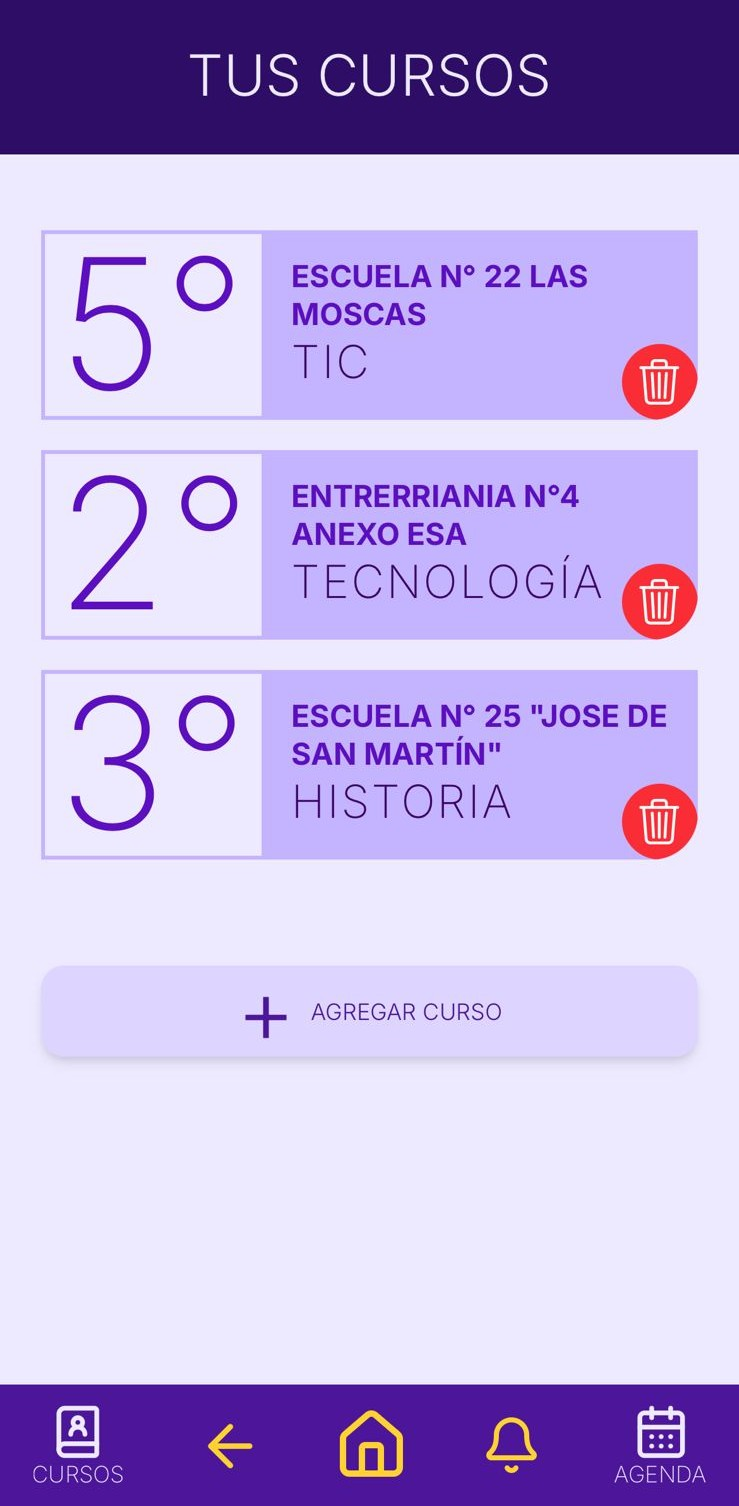
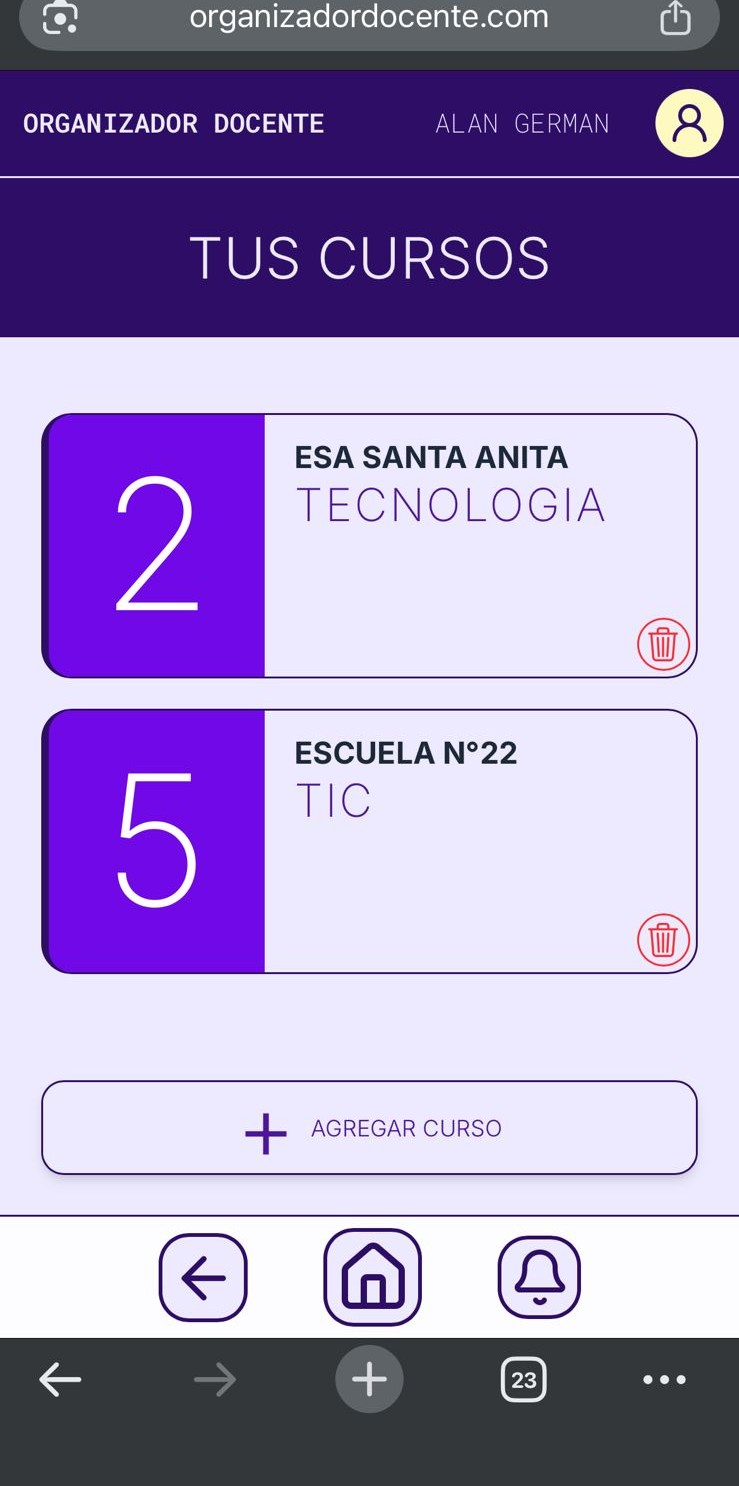
Ajustes estéticos landing

diff --git a/public/sw.js b/public/sw.js
@@ -1,1 +1,1 @@
-if(!self.define){let e,i={};const s=(s,a)=>(s=new URL(s+".js",a).href,i[s]||new Promise(i=>{if("document"in self){const e=document.createElement("script");e.src=s,e.onload=i,document.head.appendChild(e)}else e=s,importScripts(s),i()}).then(()=>{let e=i[s];if(!e)throw new Error(`Module ${s} didn’t register its module`);return e}));self.define=(a,c)=>{const t=e||("document"in self?document.currentScript.src:"")||location.href;if(i[t])return;let n={};const r=e=>s(e,t),f={module:{uri:t},exports:n,require:r};i[t]=Promise.all(a.map(e=>f[e]||r(e))).then(e=>(c(...e),n))}}define(["./workbox-4754cb34"],function(e){"use strict";importScripts(),self.skipWaiting(),e.clientsClaim(),e.precacheAndRoute([{url:"/Atma/OFL.txt",revision:"62f71a11d9a00d46cdf3102097f59af9"},{url:"/Bebas_Neue/OFL.txt",revision:"f42efa4255d0f0b7ec140429febee0b0"},{url:"/Playwrite_AU_NSW/OFL.txt",revision:"bd7673fa565a08cf458f936e57dc2ed3"},{url:"/Playwrite_AU_NSW/PlaywriteAUNSW-VariableFont_wght.ttf",revision:"6f5cb244f7b46185e6931479e0ded427"},{url:"/Playwrite_AU_NSW/README.txt",revision:"90dbf4457961b204501ef4aab9458b57"},{url:"/Playwrite_AU_NSW/static/PlaywriteAUNSW-ExtraLight.ttf",revision:"c7327817bd2adac6a3a9c4f6a2e87c8c"},{url:"/Playwrite_AU_NSW/static/PlaywriteAUNSW-Light.ttf",revision:"9387a020330f837fd9c16b289670afce"},{url:"/Playwrite_AU_NSW/static/PlaywriteAUNSW-Regular.ttf",revision:"56de08dbf6f04b18c145d47be2312e22"},{url:"/Playwrite_AU_NSW/static/PlaywriteAUNSW-Thin.ttf",revision:"4b7e51f50c393b30944f905e9c7b9971"},{url:"/_next/app-build-manifest.json",revision:"87e952715cabbb3871a7cf6c61ec3b60"},{url:"/_next/static/-Giu0QAzjriWvPHl-4fNc/_buildManifest.js",revision:"c155cce658e53418dec34664328b51ac"},{url:"/_next/static/-Giu0QAzjriWvPHl-4fNc/_ssgManifest.js",revision:"b6652df95db52feb4daf4eca35380933"},{url:"/_next/static/chunks/117-905fadd7e2e1b826.js",revision:"-Giu0QAzjriWvPHl-4fNc"},{url:"/_next/static/chunks/198-01aaa8b002b400dc.js",revision:"-Giu0QAzjriWvPHl-4fNc"},{url:"/_next/static/chunks/303-a523350dd08b7444.js",revision:"-Giu0QAzjriWvPHl-4fNc"},{url:"/_next/static/chunks/693-67a1a5c201638d2e.js",revision:"-Giu0QAzjriWvPHl-4fNc"},{url:"/_next/static/chunks/6edf0643-db532f25b1f04785.js",revision:"-Giu0QAzjriWvPHl-4fNc"},{url:"/_next/static/chunks/869-a52f41c35ad4e4cc.js",revision:"-Giu0QAzjriWvPHl-4fNc"},{url:"/_next/static/chunks/app/_not-found/page-7ea5c92619c85ddd.js",revision:"-Giu0QAzjriWvPHl-4fNc"},{url:"/_next/static/chunks/app/agenda/page-6b75b58cbd2e3952.js",revision:"-Giu0QAzjriWvPHl-4fNc"},{url:"/_next/static/chunks/app/home/page-8b1e01ae290d5aca.js",revision:"-Giu0QAzjriWvPHl-4fNc"},{url:"/_next/static/chunks/app/horario/page-dabb846acee368c2.js",revision:"-Giu0QAzjriWvPHl-4fNc"},{url:"/_next/static/chunks/app/layout-fba558c83fd7cceb.js",revision:"-Giu0QAzjriWvPHl-4fNc"},{url:"/_next/static/chunks/app/login/page-5e5ac74fa0ca3656.js",revision:"-Giu0QAzjriWvPHl-4fNc"},{url:"/_next/static/chunks/app/menu-cursos/page-285bfdc284fb4116.js",revision:"-Giu0QAzjriWvPHl-4fNc"},{url:"/_next/static/chunks/app/page-1e4c45134485629f.js",revision:"-Giu0QAzjriWvPHl-4fNc"},{url:"/_next/static/chunks/app/perfil/page-9071f58e4d4b07de.js",revision:"-Giu0QAzjriWvPHl-4fNc"},{url:"/_next/static/chunks/app/planes/page-6ba55b859cf42230.js",revision:"-Giu0QAzjriWvPHl-4fNc"},{url:"/_next/static/chunks/app/planificaciones/page-a97ecdcaa5967a4b.js",revision:"-Giu0QAzjriWvPHl-4fNc"},{url:"/_next/static/chunks/app/registro/page-577aa09eb44d0a5e.js",revision:"-Giu0QAzjriWvPHl-4fNc"},{url:"/_next/static/chunks/app/sub-menu-curso/%5Bid%5D/alumnos/page-011cd7b938e9ee9e.js",revision:"-Giu0QAzjriWvPHl-4fNc"},{url:"/_next/static/chunks/app/sub-menu-curso/%5Bid%5D/asistencia/page-a4ac3f67fb8b8cd8.js",revision:"-Giu0QAzjriWvPHl-4fNc"},{url:"/_next/static/chunks/app/sub-menu-curso/%5Bid%5D/calificaciones/page-f33c816dccc0b7e0.js",revision:"-Giu0QAzjriWvPHl-4fNc"},{url:"/_next/static/chunks/app/sub-menu-curso/%5Bid%5D/layout-ebc4cb793cdb8328.js",revision:"-Giu0QAzjriWvPHl-4fNc"},{url:"/_next/static/chunks/app/sub-menu-curso/%5Bid%5D/page-e7e528bc66b3c595.js",revision:"-Giu0QAzjriWvPHl-4fNc"},{url:"/_next/static/chunks/app/test/page-5da114d27e9ad87a.js",revision:"-Giu0QAzjriWvPHl-4fNc"},{url:"/_next/static/chunks/fd9d1056-cce117dc4e21e608.js",revision:"-Giu0QAzjriWvPHl-4fNc"},{url:"/_next/static/chunks/framework-f66176bb897dc684.js",revision:"-Giu0QAzjriWvPHl-4fNc"},{url:"/_next/static/chunks/main-2bf921b954cc9609.js",revision:"-Giu0QAzjriWvPHl-4fNc"},{url:"/_next/static/chunks/main-app-45d9a5e22b5a7157.js",revision:"-Giu0QAzjriWvPHl-4fNc"},{url:"/_next/static/chunks/pages/_app-72b849fbd24ac258.js",revision:"-Giu0QAzjriWvPHl-4fNc"},{url:"/_next/static/chunks/pages/_error-7ba65e1336b92748.js",revision:"-Giu0QAzjriWvPHl-4fNc"},{url:"/_next/static/chunks/polyfills-42372ed130431b0a.js",revision:"846118c33b2c0e922d7b3a7676f81f6f"},{url:"/_next/static/chunks/webpack-3b24912e812a7f41.js",revision:"-Giu0QAzjriWvPHl-4fNc"},{url:"/_next/static/css/68a35437e3991bb8.css",revision:"68a35437e3991bb8"},{url:"/_next/static/media/05d54a18daa4c03c-s.woff2",revision:"4077147b1208bca3849bb3417e1c298d"},{url:"/_next/static/media/0ea4f4df910e6120-s.woff2",revision:"e71038f54837353ab229e80d06a1ecb2"},{url:"/_next/static/media/19cfc7226ec3afaa-s.woff2",revision:"9dda5cfc9a46f256d0e131bb535e46f8"},{url:"/_next/static/media/1f160ec2cb9962ef-s.woff2",revision:"7dca4e0f3d0e79afbe67ea05696bf25b"},{url:"/_next/static/media/21350d82a1f187e9-s.woff2",revision:"4e2553027f1d60eff32898367dd4d541"},{url:"/_next/static/media/6c25f6e897d845a3-s.p.woff2",revision:"1a662f8f0b096a4b0954f9a6017ad87d"},{url:"/_next/static/media/739c2d8941231bb4-s.p.woff2",revision:"99073479f71fe0280bb88d5b1e7322b7"},{url:"/_next/static/media/8b44c7e6549520b2-s.woff2",revision:"7113097e6195b2704f2923f6989dd992"},{url:"/_next/static/media/8e620dc4acdd7958-s.woff2",revision:"cd280d1be2bca9748c8ef24a745d5d93"},{url:"/_next/static/media/8e9860b6e62d6359-s.woff2",revision:"01ba6c2a184b8cba08b0d57167664d75"},{url:"/_next/static/media/ad8a7e2c3c2c120b-s.woff2",revision:"32c09070370c25706e8698cca94f7e84"},{url:"/_next/static/media/ba9851c3c22cd980-s.woff2",revision:"9e494903d6b0ffec1a1e14d34427d44d"},{url:"/_next/static/media/bb5a880427ef5599-s.p.woff2",revision:"f521e44c907a3665c2ae990158221322"},{url:"/_next/static/media/c5fe6dc8356a8c31-s.woff2",revision:"027a89e9ab733a145db70f09b8a18b42"},{url:"/_next/static/media/cde148027b808b99-s.woff2",revision:"6c9556921ca60efd3d9e73240485e345"},{url:"/_next/static/media/df0a9ae256c0569c-s.woff2",revision:"d54db44de5ccb18886ece2fda72bdfe0"},{url:"/_next/static/media/e4af272ccee01ff0-s.p.woff2",revision:"65850a373e258f1c897a2b3d75eb74de"},{url:"/_next/static/media/e61ae719f7cc4155-s.woff2",revision:"b20465c98c6e9085d8f74b0032e5287b"},{url:"/agenda-img.jpeg",revision:"6eb1b4bd86809bb74adcb95566053aa6"},{url:"/asistencias-img.jpeg",revision:"74068dd13cc22acd3122d03622c6561c"},{url:"/calificaciones-img.jpeg",revision:"87df3386a9cab1f683523bfcf0f2ff2d"},{url:"/cursos-img.jpeg",revision:"1e17d1c981f103625f593f095ab0c8f5"},{url:"/file.svg",revision:"d09f95206c3fa0bb9bd9fefabfd0ea71"},{url:"/fonts/Atma-Bold.ttf",revision:"7ecfc62fb685179e407721b081856a20"},{url:"/fonts/Atma-Light.ttf",revision:"fc6a71bb357cec33a3b029975a7bfa47"},{url:"/fonts/Atma-Medium.ttf",revision:"ae5b10c3e5e5851b4de3376ff00dbf38"},{url:"/fonts/Atma-Regular.ttf",revision:"02700848f7d955e883c95e632b06bbf5"},{url:"/fonts/Atma-SemiBold.ttf",revision:"fede545a4bb0ecede0e1f514b200aaaa"},{url:"/fonts/BebasNeue-Regular.ttf",revision:"b2b293064f557c41411aac04d6f6710d"},{url:"/fonts/PlaywriteAUNSW-VariableFont_wght.ttf",revision:"6f5cb244f7b46185e6931479e0ded427"},{url:"/globe.svg",revision:"2aaafa6a49b6563925fe440891e32717"},{url:"/img-profe.jpg",revision:"fef0a08339cc9805d0746941b58b512d"},{url:"/manifest.json",revision:"4f5675436c3995abad8433e428348420"},{url:"/next.svg",revision:"8e061864f388b47f33a1c3780831193e"},{url:"/od.svg",revision:"fd1e30a03e7c9555ad96b7954f6451ec"},{url:"/od2.svg",revision:"f84206c1d37b69999d2a2b08c1154db9"},{url:"/odicono.svg",revision:"1374e1b474902c1b9ad8e019a5da3e0e"},{url:"/vercel.svg",revision:"c0af2f507b369b085b35ef4bbe3bcf1e"},{url:"/window.svg",revision:"a2760511c65806022ad20adf74370ff3"}],{ignoreURLParametersMatching:[]}),e.cleanupOutdatedCaches(),e.registerRoute("/",new e.NetworkFirst({cacheName:"start-url",plugins:[{cacheWillUpdate:async({request:e,response:i,event:s,state:a})=>i&&"opaqueredirect"===i.type?new Response(i.body,{status:200,statusText:"OK",headers:i.headers}):i}]}),"GET"),e.registerRoute(/^https:\/\/fonts\.(?:gstatic)\.com\/.*/i,new e.CacheFirst({cacheName:"google-fonts-webfonts",plugins:[new e.ExpirationPlugin({maxEntries:4,maxAgeSeconds:31536e3})]}),"GET"),e.registerRoute(/^https:\/\/fonts\.(?:googleapis)\.com\/.*/i,new e.StaleWhileRevalidate({cacheName:"google-fonts-stylesheets",plugins:[new e.ExpirationPlugin({maxEntries:4,maxAgeSeconds:604800})]}),"GET"),e.registerRoute(/\.(?:eot|otf|ttc|ttf|woff|woff2|font.css)$/i,new e.StaleWhileRevalidate({cacheName:"static-font-assets",plugins:[new e.ExpirationPlugin({maxEntries:4,maxAgeSeconds:604800})]}),"GET"),e.registerRoute(/\.(?:jpg|jpeg|gif|png|svg|ico|webp)$/i,new e.StaleWhileRevalidate({cacheName:"static-image-assets",plugins:[new e.ExpirationPlugin({maxEntries:64,maxAgeSeconds:86400})]}),"GET"),e.registerRoute(/\/_next\/image\?url=.+$/i,new e.StaleWhileRevalidate({cacheName:"next-image",plugins:[new e.ExpirationPlugin({maxEntries:64,maxAgeSeconds:86400})]}),"GET"),e.registerRoute(/\.(?:mp3|wav|ogg)$/i,new e.CacheFirst({cacheName:"static-audio-assets",plugins:[new e.RangeRequestsPlugin,new e.ExpirationPlugin({maxEntries:32,maxAgeSeconds:86400})]}),"GET"),e.registerRoute(/\.(?:mp4)$/i,new e.CacheFirst({cacheName:"static-video-assets",plugins:[new e.RangeRequestsPlugin,new e.ExpirationPlugin({maxEntries:32,maxAgeSeconds:86400})]}),"GET"),e.registerRoute(/\.(?:js)$/i,new e.StaleWhileRevalidate({cacheName:"static-js-assets",plugins:[new e.ExpirationPlugin({maxEntries:32,maxAgeSeconds:86400})]}),"GET"),e.registerRoute(/\.(?:css|less)$/i,new e.StaleWhileRevalidate({cacheName:"static-style-assets",plugins:[new e.ExpirationPlugin({maxEntries:32,maxAgeSeconds:86400})]}),"GET"),e.registerRoute(/\/_next\/data\/.+\/.+\.json$/i,new e.StaleWhileRevalidate({cacheName:"next-data",plugins:[new e.ExpirationPlugin({maxEntries:32,maxAgeSeconds:86400})]}),"GET"),e.registerRoute(/\.(?:json|xml|csv)$/i,new e.NetworkFirst({cacheName:"static-data-assets",plugins:[new e.ExpirationPlugin({maxEntries:32,maxAgeSeconds:86400})]}),"GET"),e.registerRoute(({url:e})=>{if(!(self.origin===e.origin))return!1;const i=e.pathname;return!i.startsWith("/api/auth/")&&!!i.startsWith("/api/")},new e.NetworkFirst({cacheName:"apis",networkTimeoutSeconds:10,plugins:[new e.ExpirationPlugin({maxEntries:16,maxAgeSeconds:86400})]}),"GET"),e.registerRoute(({url:e})=>{if(!(self.origin===e.origin))return!1;return!e.pathname.startsWith("/api/")},new e.NetworkFirst({cacheName:"others",networkTimeoutSeconds:10,plugins:[new e.ExpirationPlugin({maxEntries:32,maxAgeSeconds:86400})]}),"GET"),e.registerRoute(({url:e})=>!(self.origin===e.origin),new e.NetworkFirst({cacheName:"cross-origin",networkTimeoutSeconds:10,plugins:[new e.ExpirationPlugin({maxEntries:32,maxAgeSeconds:3600})]}),"GET")});
+if(!self.define){let e,s={};const a=(a,i)=>(a=new URL(a+".js",i).href,s[a]||new Promise(s=>{if("document"in self){const e=document.createElement("script");e.src=a,e.onload=s,document.head.appendChild(e)}else e=a,importScripts(a),s()}).then(()=>{let e=s[a];if(!e)throw new Error(`Module ${a} didn’t register its module`);return e}));self.define=(i,t)=>{const c=e||("document"in self?document.currentScript.src:"")||location.href;if(s[c])return;let n={};const r=e=>a(e,c),f={module:{uri:c},exports:n,require:r};s[c]=Promise.all(i.map(e=>f[e]||r(e))).then(e=>(t(...e),n))}}define(["./workbox-4754cb34"],function(e){"use strict";importScripts(),self.skipWaiting(),e.clientsClaim(),e.precacheAndRoute([{url:"/Atma/OFL.txt",revision:"62f71a11d9a00d46cdf3102097f59af9"},{url:"/Bebas_Neue/OFL.txt",revision:"f42efa4255d0f0b7ec140429febee0b0"},{url:"/Playwrite_AU_NSW/OFL.txt",revision:"bd7673fa565a08cf458f936e57dc2ed3"},{url:"/Playwrite_AU_NSW/PlaywriteAUNSW-VariableFont_wght.ttf",revision:"6f5cb244f7b46185e6931479e0ded427"},{url:"/Playwrite_AU_NSW/README.txt",revision:"90dbf4457961b204501ef4aab9458b57"},{url:"/Playwrite_AU_NSW/static/PlaywriteAUNSW-ExtraLight.ttf",revision:"c7327817bd2adac6a3a9c4f6a2e87c8c"},{url:"/Playwrite_AU_NSW/static/PlaywriteAUNSW-Light.ttf",revision:"9387a020330f837fd9c16b289670afce"},{url:"/Playwrite_AU_NSW/static/PlaywriteAUNSW-Regular.ttf",revision:"56de08dbf6f04b18c145d47be2312e22"},{url:"/Playwrite_AU_NSW/static/PlaywriteAUNSW-Thin.ttf",revision:"4b7e51f50c393b30944f905e9c7b9971"},{url:"/_next/app-build-manifest.json",revision:"0f70f034046a67100d499251c31c29ff"},{url:"/_next/static/O4_b9NS4GVjLUI3MO749Z/_buildManifest.js",revision:"172e769da91baa11de9b258fb2d92f86"},{url:"/_next/static/O4_b9NS4GVjLUI3MO749Z/_ssgManifest.js",revision:"b6652df95db52feb4daf4eca35380933"},{url:"/_next/static/chunks/117-9466dd3c0db5869b.js",revision:"O4_b9NS4GVjLUI3MO749Z"},{url:"/_next/static/chunks/198-db4feff5d5b9cd16.js",revision:"O4_b9NS4GVjLUI3MO749Z"},{url:"/_next/static/chunks/303-23b3dc6c5ada1b94.js",revision:"O4_b9NS4GVjLUI3MO749Z"},{url:"/_next/static/chunks/629-c741f0b4a6814d67.js",revision:"O4_b9NS4GVjLUI3MO749Z"},{url:"/_next/static/chunks/6edf0643-2e6809d6c7436fec.js",revision:"O4_b9NS4GVjLUI3MO749Z"},{url:"/_next/static/chunks/869-87d0657f0687b1a9.js",revision:"O4_b9NS4GVjLUI3MO749Z"},{url:"/_next/static/chunks/app/_not-found/page-1e39871d5da8c9ff.js",revision:"O4_b9NS4GVjLUI3MO749Z"},{url:"/_next/static/chunks/app/agenda/page-a153c8bdb9ff0dc7.js",revision:"O4_b9NS4GVjLUI3MO749Z"},{url:"/_next/static/chunks/app/home/page-b6712e9c2a926575.js",revision:"O4_b9NS4GVjLUI3MO749Z"},{url:"/_next/static/chunks/app/horario/page-9686c8746a79cd95.js",revision:"O4_b9NS4GVjLUI3MO749Z"},{url:"/_next/static/chunks/app/layout-9e94de5f4dfebe06.js",revision:"O4_b9NS4GVjLUI3MO749Z"},{url:"/_next/static/chunks/app/login/page-ddf5c3d720fd4463.js",revision:"O4_b9NS4GVjLUI3MO749Z"},{url:"/_next/static/chunks/app/menu-cursos/page-6c3e583151c15bfa.js",revision:"O4_b9NS4GVjLUI3MO749Z"},{url:"/_next/static/chunks/app/page-42263e765bad053d.js",revision:"O4_b9NS4GVjLUI3MO749Z"},{url:"/_next/static/chunks/app/perfil/page-ec58063e78c4a50c.js",revision:"O4_b9NS4GVjLUI3MO749Z"},{url:"/_next/static/chunks/app/planes/page-5a26e59816498670.js",revision:"O4_b9NS4GVjLUI3MO749Z"},{url:"/_next/static/chunks/app/planificaciones/page-006f2e1abde33877.js",revision:"O4_b9NS4GVjLUI3MO749Z"},{url:"/_next/static/chunks/app/registro/page-d56f59b7d4c53be6.js",revision:"O4_b9NS4GVjLUI3MO749Z"},{url:"/_next/static/chunks/app/sub-menu-curso/%5Bid%5D/alumnos/page-42bca3a2df5f0bb4.js",revision:"O4_b9NS4GVjLUI3MO749Z"},{url:"/_next/static/chunks/app/sub-menu-curso/%5Bid%5D/asistencia/page-26625287e3ba3b91.js",revision:"O4_b9NS4GVjLUI3MO749Z"},{url:"/_next/static/chunks/app/sub-menu-curso/%5Bid%5D/calificaciones/page-6d915ca18ecd9665.js",revision:"O4_b9NS4GVjLUI3MO749Z"},{url:"/_next/static/chunks/app/sub-menu-curso/%5Bid%5D/layout-24964d7d00cf9df1.js",revision:"O4_b9NS4GVjLUI3MO749Z"},{url:"/_next/static/chunks/app/sub-menu-curso/%5Bid%5D/page-bf5467a46939f59b.js",revision:"O4_b9NS4GVjLUI3MO749Z"},{url:"/_next/static/chunks/app/test/page-490ab5e98ed0669c.js",revision:"O4_b9NS4GVjLUI3MO749Z"},{url:"/_next/static/chunks/fd9d1056-188df4eb4f4176ca.js",revision:"O4_b9NS4GVjLUI3MO749Z"},{url:"/_next/static/chunks/framework-00a8ba1a63cfdc9e.js",revision:"O4_b9NS4GVjLUI3MO749Z"},{url:"/_next/static/chunks/main-781ef7b4c3bc84de.js",revision:"O4_b9NS4GVjLUI3MO749Z"},{url:"/_next/static/chunks/main-app-6c1473d8cedcfe4d.js",revision:"O4_b9NS4GVjLUI3MO749Z"},{url:"/_next/static/chunks/pages/_app-15e2daefa259f0b5.js",revision:"O4_b9NS4GVjLUI3MO749Z"},{url:"/_next/static/chunks/pages/_error-28b803cb2479b966.js",revision:"O4_b9NS4GVjLUI3MO749Z"},{url:"/_next/static/chunks/polyfills-42372ed130431b0a.js",revision:"846118c33b2c0e922d7b3a7676f81f6f"},{url:"/_next/static/chunks/webpack-3b24912e812a7f41.js",revision:"O4_b9NS4GVjLUI3MO749Z"},{url:"/_next/static/css/47cbb8dc982acf1d.css",revision:"47cbb8dc982acf1d"},{url:"/_next/static/media/05d54a18daa4c03c-s.woff2",revision:"4077147b1208bca3849bb3417e1c298d"},{url:"/_next/static/media/0ea4f4df910e6120-s.woff2",revision:"e71038f54837353ab229e80d06a1ecb2"},{url:"/_next/static/media/19cfc7226ec3afaa-s.woff2",revision:"9dda5cfc9a46f256d0e131bb535e46f8"},{url:"/_next/static/media/1f160ec2cb9962ef-s.woff2",revision:"7dca4e0f3d0e79afbe67ea05696bf25b"},{url:"/_next/static/media/21350d82a1f187e9-s.woff2",revision:"4e2553027f1d60eff32898367dd4d541"},{url:"/_next/static/media/6c25f6e897d845a3-s.p.woff2",revision:"1a662f8f0b096a4b0954f9a6017ad87d"},{url:"/_next/static/media/739c2d8941231bb4-s.p.woff2",revision:"99073479f71fe0280bb88d5b1e7322b7"},{url:"/_next/static/media/8b44c7e6549520b2-s.woff2",revision:"7113097e6195b2704f2923f6989dd992"},{url:"/_next/static/media/8e620dc4acdd7958-s.woff2",revision:"cd280d1be2bca9748c8ef24a745d5d93"},{url:"/_next/static/media/8e9860b6e62d6359-s.woff2",revision:"01ba6c2a184b8cba08b0d57167664d75"},{url:"/_next/static/media/ad8a7e2c3c2c120b-s.woff2",revision:"32c09070370c25706e8698cca94f7e84"},{url:"/_next/static/media/ba9851c3c22cd980-s.woff2",revision:"9e494903d6b0ffec1a1e14d34427d44d"},{url:"/_next/static/media/bb5a880427ef5599-s.p.woff2",revision:"f521e44c907a3665c2ae990158221322"},{url:"/_next/static/media/c5fe6dc8356a8c31-s.woff2",revision:"027a89e9ab733a145db70f09b8a18b42"},{url:"/_next/static/media/cde148027b808b99-s.woff2",revision:"6c9556921ca60efd3d9e73240485e345"},{url:"/_next/static/media/df0a9ae256c0569c-s.woff2",revision:"d54db44de5ccb18886ece2fda72bdfe0"},{url:"/_next/static/media/e4af272ccee01ff0-s.p.woff2",revision:"65850a373e258f1c897a2b3d75eb74de"},{url:"/_next/static/media/e61ae719f7cc4155-s.woff2",revision:"b20465c98c6e9085d8f74b0032e5287b"},{url:"/agenda-img.jpeg",revision:"079ca13af91310b4bd1a44605c36a993"},{url:"/alumnos-img.jpeg",revision:"109a204f32bbc311695374ff28e86642"},{url:"/asistencias-img.jpeg",revision:"a0110f9c50b54643e9515c000fdcc899"},{url:"/calificaciones-img.jpeg",revision:"b861ee67a6b6244ede9ff36879519742"},{url:"/cursos-img.jpeg",revision:"2093f0685f18a7f891f0cd56f695da66"},{url:"/detalle-alumno-img.jpeg",revision:"8dd7a01e5b8fc790d2593fb8a2b8644a"},{url:"/file.svg",revision:"d09f95206c3fa0bb9bd9fefabfd0ea71"},{url:"/fonts/Atma-Bold.ttf",revision:"7ecfc62fb685179e407721b081856a20"},{url:"/fonts/Atma-Light.ttf",revision:"fc6a71bb357cec33a3b029975a7bfa47"},{url:"/fonts/Atma-Medium.ttf",revision:"ae5b10c3e5e5851b4de3376ff00dbf38"},{url:"/fonts/Atma-Regular.ttf",revision:"02700848f7d955e883c95e632b06bbf5"},{url:"/fonts/Atma-SemiBold.ttf",revision:"fede545a4bb0ecede0e1f514b200aaaa"},{url:"/fonts/BebasNeue-Regular.ttf",revision:"b2b293064f557c41411aac04d6f6710d"},{url:"/fonts/PlaywriteAUNSW-VariableFont_wght.ttf",revision:"6f5cb244f7b46185e6931479e0ded427"},{url:"/globe.svg",revision:"2aaafa6a49b6563925fe440891e32717"},{url:"/img-profe.jpg",revision:"fef0a08339cc9805d0746941b58b512d"},{url:"/manifest.json",revision:"4f5675436c3995abad8433e428348420"},{url:"/next.svg",revision:"8e061864f388b47f33a1c3780831193e"},{url:"/od.svg",revision:"fd1e30a03e7c9555ad96b7954f6451ec"},{url:"/od2.svg",revision:"f84206c1d37b69999d2a2b08c1154db9"},{url:"/odicono.svg",revision:"1374e1b474902c1b9ad8e019a5da3e0e"},{url:"/vercel.svg",revision:"c0af2f507b369b085b35ef4bbe3bcf1e"},{url:"/window.svg",revision:"a2760511c65806022ad20adf74370ff3"}],{ignoreURLParametersMatching:[]}),e.cleanupOutdatedCaches(),e.registerRoute("/",new e.NetworkFirst({cacheName:"start-url",plugins:[{cacheWillUpdate:async({request:e,response:s,event:a,state:i})=>s&&"opaqueredirect"===s.type?new Response(s.body,{status:200,statusText:"OK",headers:s.headers}):s}]}),"GET"),e.registerRoute(/^https:\/\/fonts\.(?:gstatic)\.com\/.*/i,new e.CacheFirst({cacheName:"google-fonts-webfonts",plugins:[new e.ExpirationPlugin({maxEntries:4,maxAgeSeconds:31536e3})]}),"GET"),e.registerRoute(/^https:\/\/fonts\.(?:googleapis)\.com\/.*/i,new e.StaleWhileRevalidate({cacheName:"google-fonts-stylesheets",plugins:[new e.ExpirationPlugin({maxEntries:4,maxAgeSeconds:604800})]}),"GET"),e.registerRoute(/\.(?:eot|otf|ttc|ttf|woff|woff2|font.css)$/i,new e.StaleWhileRevalidate({cacheName:"static-font-assets",plugins:[new e.ExpirationPlugin({maxEntries:4,maxAgeSeconds:604800})]}),"GET"),e.registerRoute(/\.(?:jpg|jpeg|gif|png|svg|ico|webp)$/i,new e.StaleWhileRevalidate({cacheName:"static-image-assets",plugins:[new e.ExpirationPlugin({maxEntries:64,maxAgeSeconds:86400})]}),"GET"),e.registerRoute(/\/_next\/image\?url=.+$/i,new e.StaleWhileRevalidate({cacheName:"next-image",plugins:[new e.ExpirationPlugin({maxEntries:64,maxAgeSeconds:86400})]}),"GET"),e.registerRoute(/\.(?:mp3|wav|ogg)$/i,new e.CacheFirst({cacheName:"static-audio-assets",plugins:[new e.RangeRequestsPlugin,new e.ExpirationPlugin({maxEntries:32,maxAgeSeconds:86400})]}),"GET"),e.registerRoute(/\.(?:mp4)$/i,new e.CacheFirst({cacheName:"static-video-assets",plugins:[new e.RangeRequestsPlugin,new e.ExpirationPlugin({maxEntries:32,maxAgeSeconds:86400})]}),"GET"),e.registerRoute(/\.(?:js)$/i,new e.StaleWhileRevalidate({cacheName:"static-js-assets",plugins:[new e.ExpirationPlugin({maxEntries:32,maxAgeSeconds:86400})]}),"GET"),e.registerRoute(/\.(?:css|less)$/i,new e.StaleWhileRevalidate({cacheName:"static-style-assets",plugins:[new e.ExpirationPlugin({maxEntries:32,maxAgeSeconds:86400})]}),"GET"),e.registerRoute(/\/_next\/data\/.+\/.+\.json$/i,new e.StaleWhileRevalidate({cacheName:"next-data",plugins:[new e.ExpirationPlugin({maxEntries:32,maxAgeSeconds:86400})]}),"GET"),e.registerRoute(/\.(?:json|xml|csv)$/i,new e.NetworkFirst({cacheName:"static-data-assets",plugins:[new e.ExpirationPlugin({maxEntries:32,maxAgeSeconds:86400})]}),"GET"),e.registerRoute(({url:e})=>{if(!(self.origin===e.origin))return!1;const s=e.pathname;return!s.startsWith("/api/auth/")&&!!s.startsWith("/api/")},new e.NetworkFirst({cacheName:"apis",networkTimeoutSeconds:10,plugins:[new e.ExpirationPlugin({maxEntries:16,maxAgeSeconds:86400})]}),"GET"),e.registerRoute(({url:e})=>{if(!(self.origin===e.origin))return!1;return!e.pathname.startsWith("/api/")},new e.NetworkFirst({cacheName:"others",networkTimeoutSeconds:10,plugins:[new e.ExpirationPlugin({maxEntries:32,maxAgeSeconds:86400})]}),"GET"),e.registerRoute(({url:e})=>!(self.origin===e.origin),new e.NetworkFirst({cacheName:"cross-origin",networkTimeoutSeconds:10,plugins:[new e.ExpirationPlugin({maxEntries:32,maxAgeSeconds:3600})]}),"GET")});